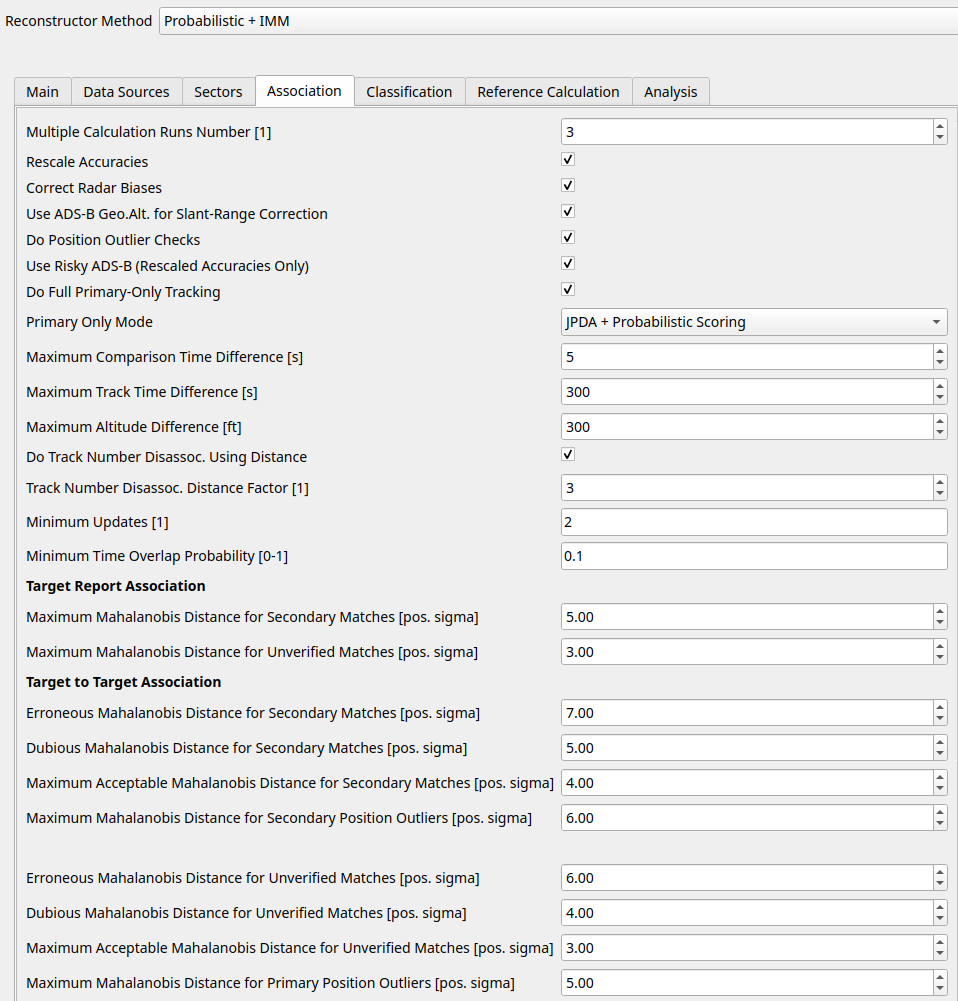
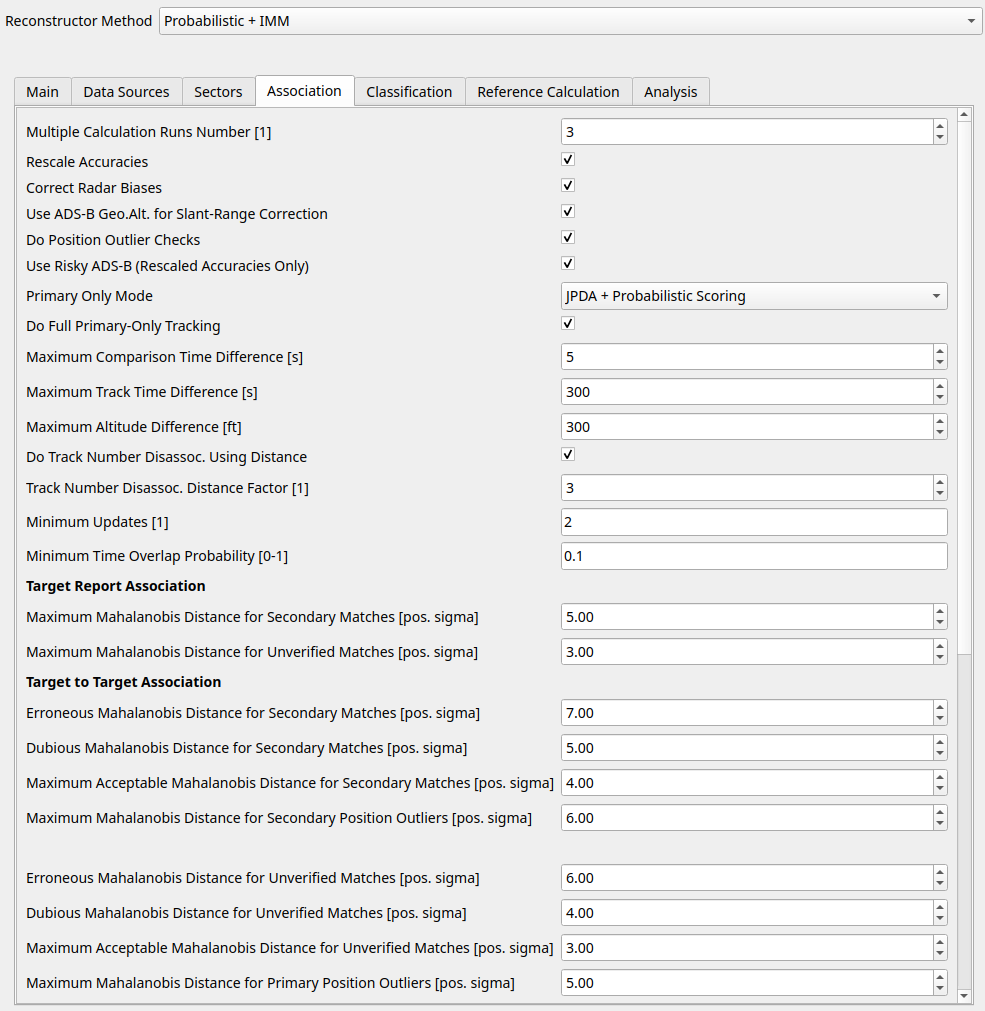
doc

Changed region(s): [[0.0, 0.0619, 1.0, 1.0], [0.0, 0.0, 0.3027, 0.031]]

diff --git a/doc/user_manual/reconst/reconstructor.tex b/doc/user_manual/reconst/reconstructor.tex
@@ -227,6 +227,26 @@ Without going into detail, in this section a short overview is given over the ca
 Resampling of system tracks is enabled in order to obtain similar sample rates for tracker and high-update rate (e.g. ADS-B) data, which reduces a sensor-specific bias of the Kalman filter. 
 Cubic B-splines are used to interpolate the tracker target reports in a relaxed way. In case a spline segment deviates too strongly from its interval, a linear interpolation is used instead. \\
 
+\subsubsection{Probabilistic Position Matching}
+
+Generally, static position thresholds are avoided in favor of probabilistic ones. The system employs probabilistic distance scoring utilizing Mahalanobis distances, which are based on position accuracy estimates. Thresholds are then applied to these Mahalanobis distances (e.g. 3x Standard Deviation).\\
+
+The \href{https://en.wikipedia.org/wiki/Mahalanobis_distance}{Mahalanobis distance} measures the distance between a point $P$ and a probability distribution $D$. Effectively, it indicates how many standard deviations $\sigma$ the point $P$ is away from the mean of $D$. This metric divides the distance between the target report and the target by the sum of accuracies (standard deviations). \\
+
+However, this calculation requires defined minimum and maximum accuracy parameters, otherwise the combination with Accuracy Scaling may lead spiraling into associating nothing or everything, depending on the clutter level.\\
+
+Using this distance, different match qualities can be defined: for example, an acceptable match at 3$\sigma$, a dubious match at 4$\sigma$, and an outlier at 5$\sigma$. Different thresholds can be configured for primary-only versus secondary associations, operating effectively both on ground and in-air.\\
+
+Crucially, this method relies on accurate estimates of target report and target state standard deviations, which are obtained through accuracy rescaling and multiple time-slice processing.
+
+\subsubsection{JPDA for PSR/SMR plots}
+
+Joint Probabilistic Data Association (JPDA) is applied for PSR and SMR plots to facilitate position-based association (\href{https://doi.org/10.1109/CDC.1980.271915}{“Multi-Target Tracking Using Joint Probabilistic Data Association” by Fortmann, Bar-Shalom \& Scheffe, 1980}). JPDA is an adequate solution because it provides improved position estimates in high clutter situations. By considering all feasible associations and determining the most likely hypothesis for primary plot association, it mitigates the impact of false detections and clutter. \\
+
+This probabilistic approach, when used in combination with Probabilistic Position Matching, ensures that the reconstructed reference trajectory remains stable and accurate even in challenging detection environments. \\
+
+Using Full Primary-Only Tracking, primary-only plots are not only associated to matching targets, but can generate new primary-only targets. While reconstructing a dataset with only primary-only sensors is not recommended, this feature will allow formation of primary-only UTNs based on primary-only detections only (without e.g. a related system track or secondary detection).
+
 \subsubsection{Radar Plot Position Improvements}
 
 Using the features mentioned above, the 'Correct Radar Bias' and the 'Use ADS-B geometric altitude for slant-range correction' features can for example result in the following real-life position improvements: 

diff --git a/doc/user_manual/appendix/appendix_reconstructor.tex b/doc/user_manual/appendix/appendix_reconstructor.tex
@@ -20,14 +20,14 @@ The following tables list the association configuration parameters available for
     Use ADS-B Geo.Alt. for Slant-Range Correction & Use ADS-B geometric altitude for slant-range correction. & Basic & True & True/False \\ \hline
     Do Position Outlier Checks & Flag position outliers and do not use for position estimation. & Basic & True & True/False \\ \hline
     Use Risky ADS-B & Accept lower quality ADS-B reports (if rescaling active). & Advanced & False & True/False \\ \hline
-    Do Full Primary-Only Tracking & Enable tentative track creation (JPDA). & Intermediate & True & True/False \\ \hline
     Primary Only Mode & Mode deciding how primary plots are associated. & Intermediate & JPDA + Probabilistic Scoring & Probabilistic Scoring/JPDA/JPDA + Probabilistic Scoring \\ \hline
+    Do Full Primary-Only Tracking & Enable tentative track creation (JPDA). & Intermediate & True & True/False \\ \hline
     \end{tabular}
     \caption{Configuration parameters for the Probabilistic + IMM Reconstructor}
 \end{table}
 \ \\
 
-\hl{TODO describe} \\
+
 
 
 Primary Only Mode has the following options:
